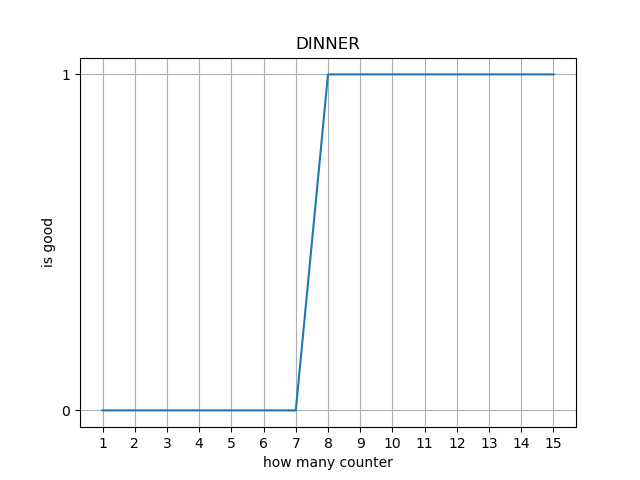
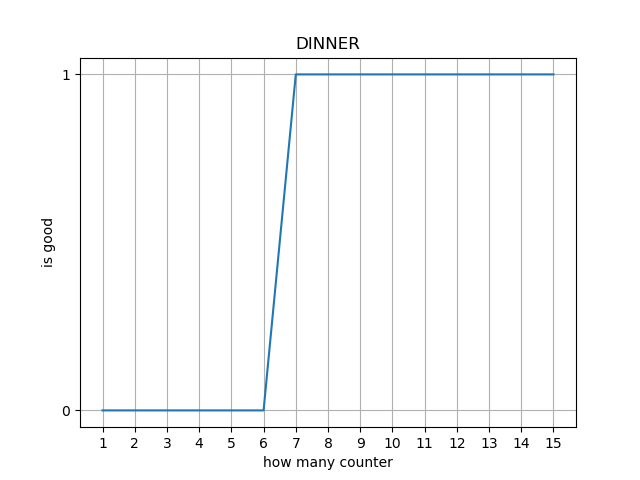
10日間とは、24時間*10ではなく、3時間*10であった

diff --git a/problem2.py b/problem2.py
@@ -17,7 +17,7 @@ class Problem2(object):
         self.w.timezone = TimeZone.OTHER
 
         # 計算対象期間(分)
-        self.w.minute = 60 * 24 * 10
+        self.w.minute = 60 * 3 * 10
 
         # 要件待機客数(未満)
         self.c_limit = 5
